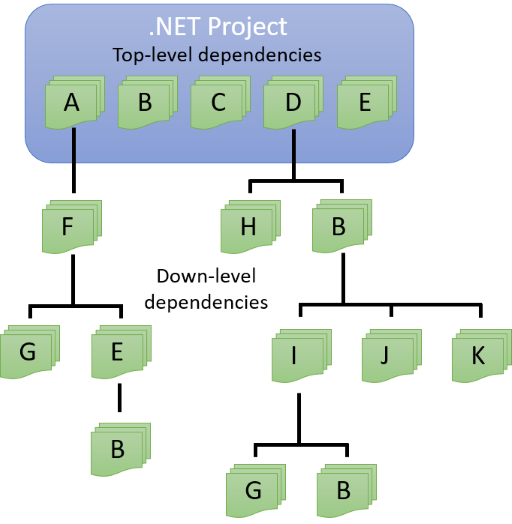
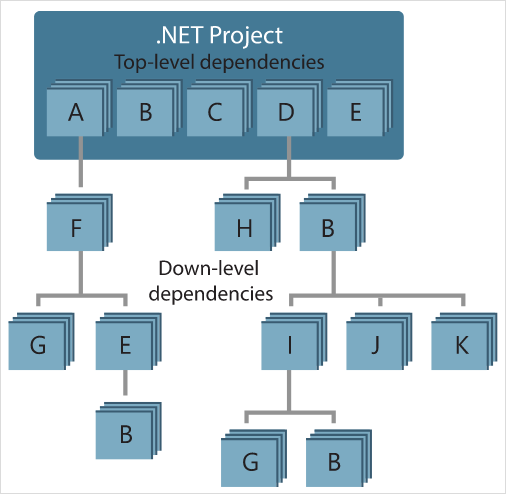
Updating image and refernece format section

diff --git a/docs/What-is-NuGet.md b/docs/What-is-NuGet.md
@@ -5,7 +5,7 @@ title: What is NuGet and what does it do? | Microsoft Docs
 author: kraigb
 ms.author: kraigb
 manager: ghogen
-ms.date: 7/12/2017
+ms.date: 7/27/2017
 ms.topic: hero-article
 ms.prod: nuget
 #ms.service:
@@ -28,7 +28,7 @@ ms.reviewer:
 
 ---
 
-# A simple introduction to NuGet
+# An introduction to NuGet
 
 An essential tool for any modern development platform is a mechanism through which developers can create, share, and consume useful libraries and packages. For .NET, that mechanism is **NuGet**, which defines how packages for .NET are created, hosted, and consumed, and provides the tools for each of those roles.
 
@@ -67,7 +67,7 @@ The following image shows a project that depends on five packages, which in turn
 
 ![An example NuGet dependency graph for a .NET project](media/dependency-graph.png)
 
-Notice that some packages appear multiple times in the dependency graph. For example, there are four different consumers of package B, and each consumer might also specify a different version for that package (not shown). Because this is a common occurrence, NuGet fortunately does all the hard work to determine exactly which version of package B will satisfy all its consumers. NuGet then does the same for all other packages, no matter how deep the dependency graph becomes.
+Notice that some packages appear multiple times in the dependency graph. For example, there are four different consumers of package B, and each consumer might also specify a different version for that package (not shown). Because this is a common occurrence, NuGet fortunately does all the hard work to determine exactly which version of package B satisfies all its consumers. NuGet then does the same for all other packages, no matter how deep the dependency graph becomes.
 
 For more details on how NuGet performs this service, see [Dependency resolution](./Consume-Packages/Dependency-Resolution.md).
 
@@ -88,18 +88,18 @@ Clearly, then, NuGet's primarily role where developers are concerned is maintain
 How this exactly happens has evolved over the different versions of NuGet, resulting in several *package management formats*, as they're called:
 
 - [`packages.config`](../schema/packages.config.md): *(NuGet 1.0+)* An XML file that maintains a flat list of all dependencies in the project, including the dependencies of other installed packages. 
-- [`project.json`](../schema/project-json.md): *(NuGet 3.0+)* A JSON file that maintains a list of the project's dependencies with an overall package graph in an associated file, `project.lock.json`. This structure provides improved performance over `packages.config` as described on [Dependency Resolution](../consume-packages/dependency-resolution.md), but also has been generally superceded by PackageReference below.
+- [`project.json`](../schema/project-json.md): *(NuGet 3.0+)* A JSON file that maintains a list of the project's dependencies with an overall package graph in an associated file, `project.lock.json`. This structure provides improved performance over `packages.config` as described on [Dependency Resolution](../consume-packages/dependency-resolution.md), including transitive restore, but has itself been generally superceded by PackageReference below.
 - [Package references in project files](../consume-packages/package-references-in-project-files.md) (also known as "PackageReference") | *(NuGet 4.0+)* Maintains a list of a project's top-level dependencies directly within the project file, so no separate file is needed. An associated file, `project.assets.json`, is dynamically generated like `project.lock.json` to manage the overall dependency graph.
 
-Which package management format is employed in any given project depends on the project type and the available version of NuGet. To check what format is being used, simply look for `packages.config` or `project.json` in the project root after installing your first package. If you don't see either file, look in the project file directly for a &lt;PackageReference&gt;element. This is the case for most new projects created in Visual Studio 2017. (You can change this default in Visual Studio through **Tools > Options > NuGet Package Manager** in the **Package Management** settings.
+Which package management format is employed in any given project depends on the project type, and the available version of NuGet and Visual Studio. To check what format is being used, simply look for `packages.config` or `project.json` in the project root after installing your first package. If you don't see either file, look in the project file directly for a &lt;PackageReference&gt;element.
 
-You can also switch from one format to another. NuGet literally doesn't care which method you use, so long as you have the appropriate version of [NuGet installed](../guides/install-nuget.md). Older projects that use `packages.config` can be converted to use either `project.json` or PackageReference, and projects using `project.json` can also be converted to use PackageReference. For each package, simply create the appropriate reference element in the new file using the same package identifier and version number shown in the older file. When it comes time to restore or update packages, NuGet will find whatever method you're using.
+In Visual Studio 2017, for example, most project types use `packages.config` except for UWP C# and .NET Core projects in Visual Studio 2017 use PackageReference. 
 
 ## What else does NuGet do?
 
-So far we've seen a number of NuGet's capabilities and services. In its hosting role, NuGet provides the central nuget.org repository and supports private hosting. NuGet provides the tools developers need for creating, publishing, and consuming packages. And most importantly, NuGet maintains a reference list of packages used in a project and the ability to restore and update those packages from that list.
+To summarize what we've covered so far, NuGet provides (in its hosting role) the central nuget.org repository and supports private hosting. NuGet provides the tools developers need for creating, publishing, and consuming packages. And most importantly, NuGet maintains a reference list of packages used in a project and the ability to restore and update those packages from that list.
 
-To make these processes work efficiently, NuGet does some behind-the-scenes optimizations. Most notably, NuGet manages both machine-wide and project-specific package caches to shortcut installation and reinstallation. Where the machine-wide cache is concerned, any package that you download and install in a project is stored in the cache, such that installing the same package in another project doesn't have to download it again. This is clearly very helpful when you're frequently restoring a larger number of packages, as on a build server. For more details on the mechanism and how to work with it, see [Managing the NuGet cache](../consume-packages/managing-the-nuget-cache.md).
+To make these processes work efficiently, NuGet does some behind-the-scenes optimizations. Most notably, NuGet manages both computer-wide and project-specific package caches to shortcut installation and reinstallation. Where the computer-wide cache is concerned, any package that you download and install in a project is stored in the cache, such that installing the same package in another project doesn't have to download it again. This is clearly very helpful when you're frequently restoring a larger number of packages, as on a build server. For more details on the mechanism and how to work with it, see [Managing the NuGet cache](../consume-packages/managing-the-nuget-cache.md).
 
 Within an individual project, NuGet does a lot of work to manage the overall dependency graph. (When using `project.json` or &lt;PackageReference&gt;, NuGet keeps that information in a secondary file called `project.lock.json` and `project.assets.json`, respectively.) This again includes resolving multiple references to different versions of the same package.
 
